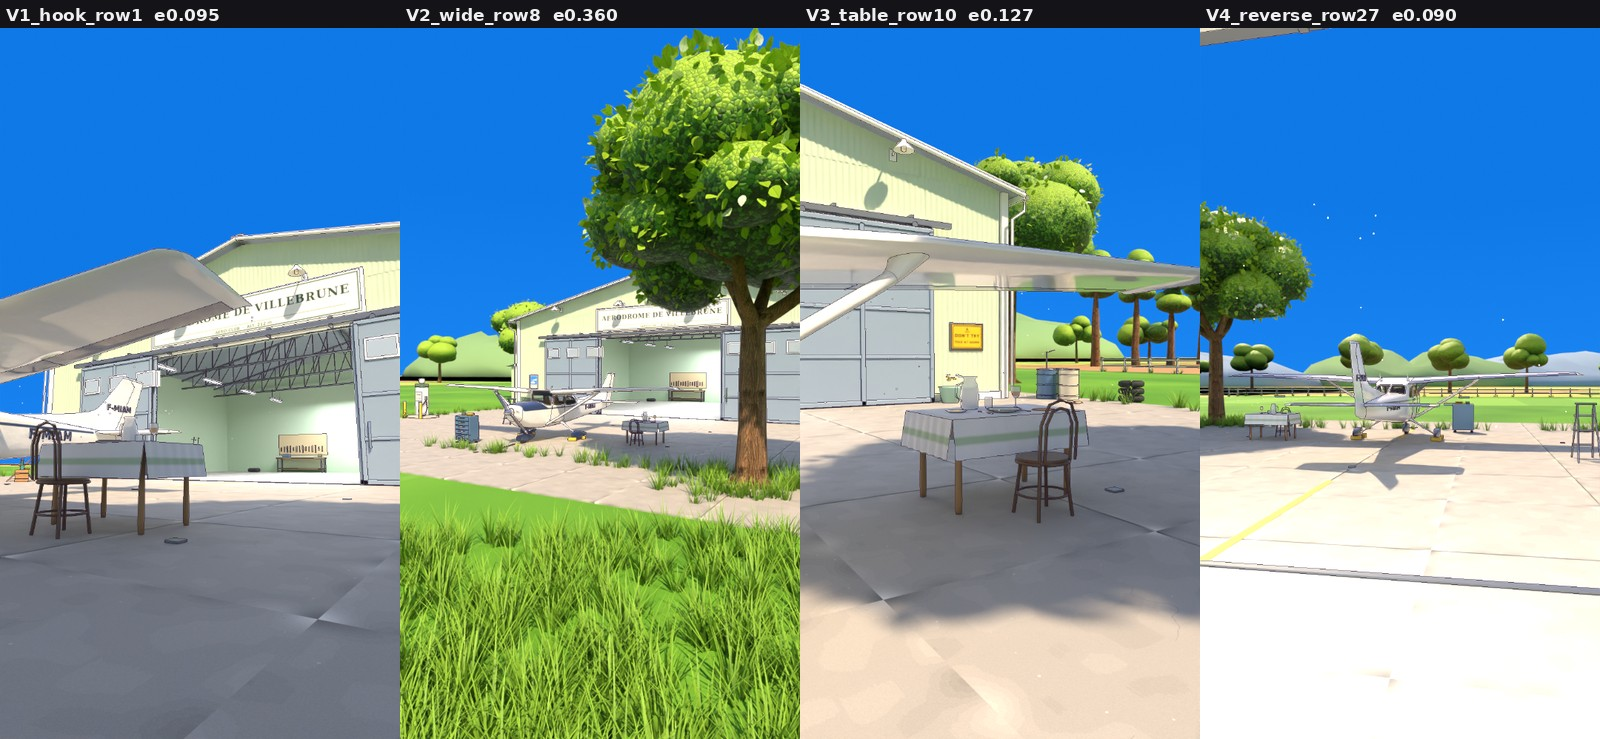
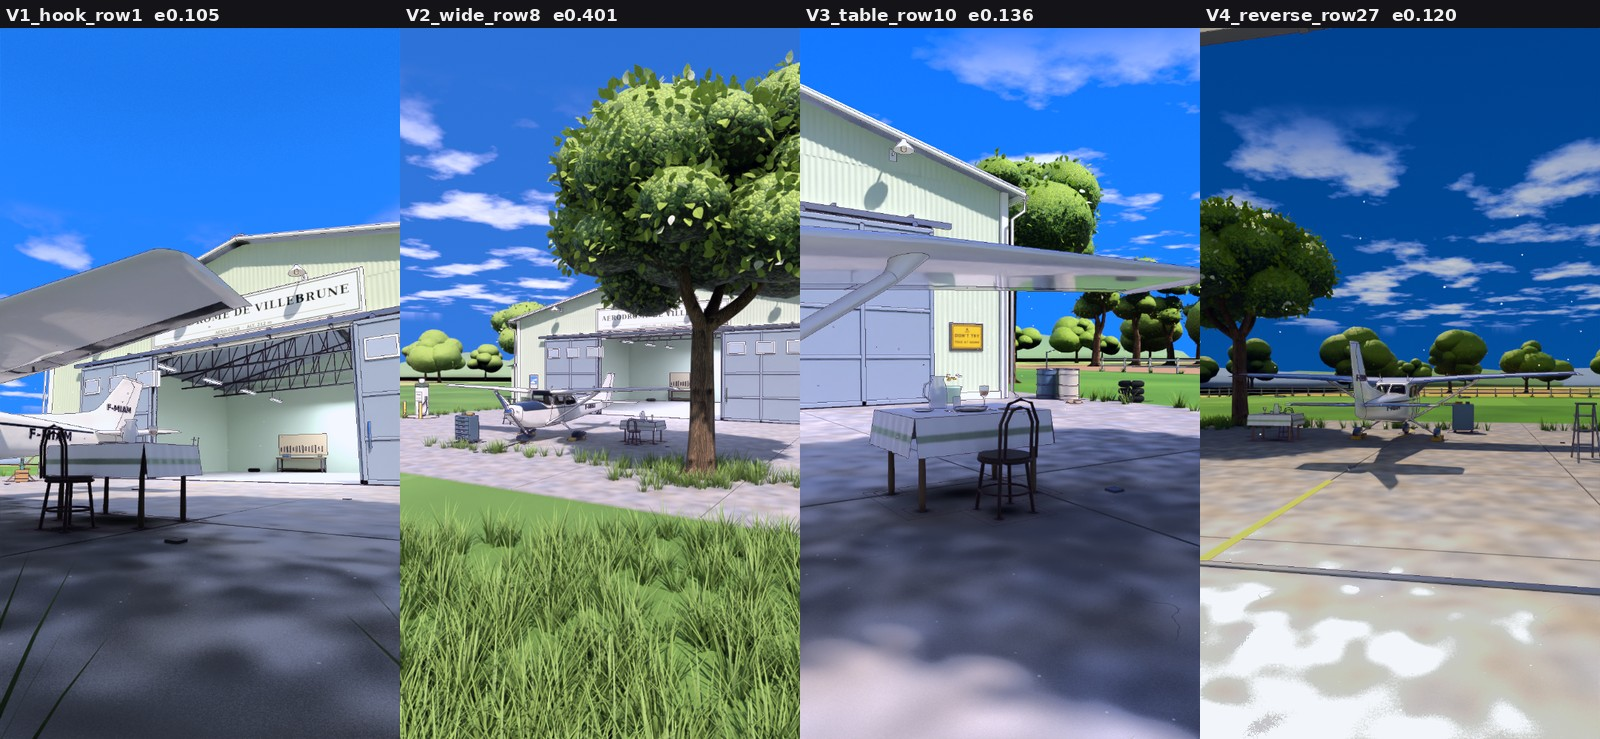
plane-eater: X-ray room, X-ray world and cabin sets v1
Claude-Session: https://claude.ai/code/session_01DrjR3Ltb34YxYG9MboPX6s

diff --git a/episodes/plane-eater/sets/apron/scripts/tex_apron.py b/episodes/plane-eater/sets/apron/scripts/tex_apron.py
@@ -8,13 +8,15 @@ FD = '/usr/share/fonts/truetype/dejavu/'
 SERIF, SANS = FD + 'DejaVuSerif-Bold.ttf', FD + 'DejaVuSans-Bold.ttf'
 def hx(h): h = h.lstrip('#'); return tuple(int(h[i:i + 2], 16) for i in (0, 2, 4))
 def blur_noise(n, s, sig):
-    a = NP.random((s, s)).astype(np.float32); im = Image.fromarray((a * 255).astype(np.uint8)).filter(ImageFilter.GaussianBlur(sig)); return np.asarray(im).astype(np.float32) / 255
+    # FIX 2: blur in float, wrap-around (tiles), rescaled 0..1. The old uint8 blur left 1-2 grey levels that the normalising turned into hard camouflage blotches
+    from scipy.ndimage import gaussian_filter
+    a = gaussian_filter(NP.random((s, s)).astype(np.float32), sig, mode='wrap'); return (a - a.min()) / (a.max() - a.min() + 1e-9)
 
 # concrete: pale warm grey, soft clouding, fine speckle, two hairline cracks per tile (2 m tile, 1024 px)
 S = 1024; base = np.array(hx('#a7a6a3'), np.float32)   # FIX 2: style-test concrete (was #c9c6bd, clipped white)
 cl = blur_noise(0, S, 40); cl = (cl - cl.mean()) / (cl.std() + 1e-6); sp = NP.random((S, S)).astype(np.float32)
 tw = blur_noise(0, S, 90); tw = (tw - tw.mean()) / (tw.std() + 1e-6)   # FIX 2: soft warm/cool drift between patches
-img = base[None, None, :] * (1 + .06 * cl[..., None]) + tw[..., None] * np.array([3.5, 1.0, -3.0], np.float32) + (sp[..., None] - .5) * 14
+img = base[None, None, :] * (1 + .045 * cl[..., None]) + tw[..., None] * np.array([3.5, 1.0, -3.0], np.float32) + (sp[..., None] - .5) * 14
 img = np.clip(img, 0, 255).astype(np.uint8); im = Image.fromarray(img); d = ImageDraw.Draw(im)
 for _ in range(2):
     x, y = R.uniform(100, 900), R.uniform(100, 900); a = R.uniform(0, 6.28)

diff --git a/episodes/plane-eater/sets/apron/scripts/apron_api.py b/episodes/plane-eater/sets/apron/scripts/apron_api.py
@@ -32,8 +32,8 @@ def _world(sc):
     nb = N.new('ShaderNodeTexNoise'); nb.noise_dimensions = '2D'; nb.inputs['Scale'].default_value = 1.3; nb.inputs['Detail'].default_value = 7.; nb.inputs['Roughness'].default_value = .55
     L.new(dv.outputs[0], nb.inputs['Vector'])
     cr = N.new('ShaderNodeMapRange'); cr.inputs[1].default_value = .52; cr.inputs[2].default_value = .62; L.new(nb.outputs['Fac'], cr.inputs[0])
-    b1 = N.new('ShaderNodeMapRange'); b1.interpolation_type = 'SMOOTHSTEP'; L.new(sp_.outputs[2], b1.inputs[0]); b1.inputs[1].default_value = .03; b1.inputs[2].default_value = .09
-    b2 = N.new('ShaderNodeMapRange'); b2.interpolation_type = 'SMOOTHSTEP'; L.new(sp_.outputs[2], b2.inputs[0]); b2.inputs[1].default_value = .28; b2.inputs[2].default_value = .45
+    b1 = N.new('ShaderNodeMapRange'); b1.interpolation_type = 'SMOOTHSTEP'; L.new(sp_.outputs[2], b1.inputs[0]); b1.inputs[1].default_value = .1; b1.inputs[2].default_value = .16
+    b2 = N.new('ShaderNodeMapRange'); b2.interpolation_type = 'SMOOTHSTEP'; L.new(sp_.outputs[2], b2.inputs[0]); b2.inputs[1].default_value = .36; b2.inputs[2].default_value = .52
     b2.inputs[3].default_value = 1.; b2.inputs[4].default_value = 0.
     cm = N.new('ShaderNodeMath'); cm.operation = 'MULTIPLY'; L.new(b1.outputs[0], cm.inputs[0]); L.new(b2.outputs[0], cm.inputs[1])
     cm2 = N.new('ShaderNodeMath'); cm2.operation = 'MULTIPLY'; cm2.use_clamp = True; L.new(cr.outputs[0], cm2.inputs[0]); L.new(cm.outputs[0], cm2.inputs[1])

diff --git a/episodes/plane-eater/sets/apron/scripts/bl_apron.py b/episodes/plane-eater/sets/apron/scripts/bl_apron.py
@@ -35,7 +35,7 @@ def mat(name, col='#ffffff', rough=.6, metal=0., png=None, emit=None, coat=0., a
 M = dict(
     sage=mat('hangar_sage', '#c9dcc0', .55), trim=mat('trim_white', '#f4f4ee', .4), door=mat('door_greyblue', '#8ea4b8', .45, coat=.3),
     roof=mat('roof_metal', '#b4bcc2', .35, .6), steel=mat('steel_grey', '#8e959c', .35, .8), dark=mat('rubber_dark', '#2e3034', .7),
-    glass=mat('glass_win', '#9fc0dc', .05, .2, alpha=.55), conc=mat('concrete', '#ffffff', .85, png='concrete'), conc_in=mat('concrete_in', '#b9b6ae', .6),
+    glass=mat('glass_win', '#9fc0dc', .05, .2, alpha=.55), conc=mat('concrete', '#ffffff', .85, png='concrete'), conc_in=mat('concrete_in', '#b4b2ac', .92)   # FIX 2: matte (glossy floor gave noisy white blotches in V4),
     cloth=mat('tablecloth', '#ffffff', .8, png='cloth'), wood=mat('wood_honey', '#ffffff', .5, png='wood'), bent=mat('wood_bentwood', '#6b4a2f', .4, coat=.4),
     china=mat('china_white', '#f7f7f4', .15, coat=.6), crystal=mat('glass_crystal', '#ffffff', .02, alpha=.25), oil=mat('oil_amber', '#f0a81c', .05, emit='#f0a81c', coat=.8),
     water=mat('water_clear', '#d8ecf6', .02, alpha=.35), chrome=mat('chrome', '#e8eaee', .08, 1.), canvas=mat('canvas_stripe', '#ffffff', .75, png='canvas'),

diff --git a/episodes/plane-eater/sets/xray/STATE.md b/episodes/plane-eater/sets/xray/STATE.md
@@ -1,0 +1,23 @@
+# STATE: PLACE X, X-ray clinic corner + X-RAY WORLD (set-builder round 1, 2026-11-21). Sheet: XRAY_SHEET.jpg (6 tiles, looked at).
+## NOT done / still weak (seen in the sheet)
+- X-ray world rows 21-22 are WASHED OUT: lining + dashes + glass wall + fog glow add up to near-white (mean .78/.84; edge .016/.023, colours 66/89).
+  Fix: lining emission .45 -> .1, base colour toward #5fb3e0, glare strength .5 -> .25, stomach rim emission 2.2 -> 1.0, xw_key 160 -> 60.
+- Row 21 mattress quilting reads as round bubbles, not a quilted mattress: add seam grooves between pillows + button dots; dashes barely visible.
+- Row 20 CAM_INSIDE: the bean reads but is small and below a big rib; no Cessna readable at that distance. Move camera closer / lower, ribs fewer in front.
+- Mini Cessna (row 22) reads as a plane of square bites, but too small in CAM_RIDE; ride camera 0.3 m closer.
+- Clinic: walls still bright (shoulder mean .69, wide .56 fine); a black square at a T-bar crossing in CAM_WIDE (not found yet); window sky is a flat placeholder
+  (background-painter). Shoulder tile edge .066 / 293 regions: wall area too plain left of the box (add a poster / notice board / switch plate).
+- Gates (density_check --day): shoulder 1/7, wide 4/7, film 4/7, inside 1/7, lining 2/7, ride 1/7. Edge density 0.016-0.077 vs Rick bar 0.086.
+- Kit module xray.js: syntax-checked only, not rendered in the kit. The backdrop sphere needs side BackSide in the kit (flipped normals may not survive).
+- No close-up detail pairs measured against Rick (only one ours-vs-Rick sheet: crew/set-builder_vs_rick.jpg, private, holds Rick frames).
+## Built
+- scripts/tex_xray.py (film_hero = the signature: cyan skeleton on #2f6fb3, bean stomach, Cessna of square bites with navy stripe, F-MIAM, label M. LOTITO
+  GRENOBLE 1978; film_before; lino; eye chart; world backdrop), scripts/bl_xray.py, build_xray.sh, ../pe_bl.py (helpers), ../pe_proof.py, ../pe_sheet.py, ../run_proofs.sh.
+- out/xray.blend (cams CAM_SHOULDER, CAM_WIDE, CAM_FILM, CAM_INSIDE, CAM_LINING, CAM_RIDE), out/xray_lite.glb (3.4 MB, morph 'puff'), out/xray_meta.json
+  (anchors, cams, slide_path + slide_path_flat, mini Cessna node). ../xray.js (kit: puff, ride, flicker, keys; propeller spin). ../xray_STORY.md, ../xray_DRESSING.md.
+## Numbers
+- Triangles: clinic 33,848; X-ray world 41,464; total 75,312 (all bevels applied). GLB 3.44 MB.
+- Previews 540x960 Cycles CPU 16 spp + OIDN, load 8-12: 60-98 s a tile. proof/numbers.json, proof/density.json.
+## Layout (Blender metres, Z up)
+Clinic floor z 0; back wall inner face y 2.2 (light box centre x .35 z 1.5, hero film on panel x .11); window wall x -2.2 (window y .35-1.75, z .95-2.15);
+4th wall y -2.6 with coat hooks; door in the right wall. X-ray world at X0 (30,0,0): stomach centre (30.4,-.2,-1.4), axes 2.9/1.9/1.6; spine at y +4.2.

diff --git a/episodes/plane-eater/crew/set-builder_check.md b/episodes/plane-eater/crew/set-builder_check.md
@@ -1,0 +1,17 @@
+# set-builder check: X-ray room + X-ray world + airliner cabin (round 1, 2026-11-21). Result: NOT PASS, below Rick (list below).
+Side-by-side (PRIVATE, holds Rick frames, never publish): crew/set-builder_vs_rick.jpg (ours left, Rick right: clinic box vs SH5 K46; cabin tray vs SH10 P01).
+## Five details per main object
+- Light box: twin emissive diffusers; chrome clip bars + 4 steel clips; 2 rubber switches; 4 chrome corner screws; VIEWER label + cable to a wall socket.
+- Hero film: cyan rib cage + vertebrae; bean stomach with quilted lining hint; Cessna of square bites with navy stripe; F-MIAM; label M. LOTITO GRENOBLE 1978 + R marker.
+- Exam bench: tufted mint vinyl (18 buttons); raised headrest; paper sheet + roll on a chrome rod; chrome legs + rubber feet + stretchers; chrome step stool with rubber tread.
+- Desk corner: green banker lamp (warm pool); beige rotary phone; green mug; manila envelopes with LOTITO; kidney dish with 5 metal bites (white/navy).
+- Mattress lining: shape key puff; quilted pillows; runway dashes rising with it; edge lines; slide path in meta.
+- Mini Cessna: 3.5 cm bite voxels; navy stripe; alu gear legs; rubber wheels; prop + spinner.
+- Airliner seat: blue weave fabric; white headrest cover; grey shell + pocket + SAFETY card; belts + chrome buckle; alu legs + spreader + armrests.
+- Tray/meal: tray whole + bitten; grey-beige tray #b9b3a3; foil lid on/lifted; peas + runaway pea; roll, butter, cup, cutlery pack, napkin.
+- Wing: crescent bite with tooth scallops; flap canoes; seam lines + walkway; winglet + green nav light; engine nacelle + intake lip + pylon.
+## Gate numbers (density_check --day; Rick bar edge 0.086, regions 736)
+xray: shoulder edge .066 1/7; wide .077 4/7; film .075 4/7; inside .058 1/7; lining .016 2/7; ride .023 1/7. cabin: two 0 (black) 1/7; tray .050 3/7; traybitten .051 3/7; window .051 2/7.
+## Below Rick (exact)
+1 cabin over-exposed and CAM_TWO inside a seat (black); windows show no clouds/wing; CAM_WINDOW blocked. 2 X-ray world rows 21-22 washed out, quilting reads as bubbles.
+3 clinic wall area plain (shoulder edge .066, Rick's clinic has monitors, rails, posters). 4 no close-up detail pairs at 90 % measured. 5 phone check not done. 6 kit modules not rendered.

diff --git a/episodes/plane-eater/sets/cabin/STATE.md b/episodes/plane-eater/sets/cabin/STATE.md
@@ -1,0 +1,19 @@
+# STATE: PLACE C, airliner cabin row (set-builder round 1, 2026-11-21). Sheet: CABIN_SHEET.jpg (4 tiles, looked at). NOT DONE.
+## NOT done / still weak (seen in the sheet)
+- CAM_TWO (row 35) renders BLACK: the camera sits inside the backrest of seat 8D (x .55, y -.6). Move to the aisle: pos (.45, .15, 1.3), aim (-.05, 1.1, .9).
+- Whole cabin OVEREXPOSED (mean .79-.82, whites clipped): cove fill 2 x 140 W -> 2 x 30, world .9 -> .35, sun 5.5 -> 4. Windows read flat white:
+  no clouds or wing seen in any tile.
+- CAM_WINDOW (row 38) is blocked by the seat back of row 0 at 0.3 m: the bitten wing is not seen. Needs a station at the window seat looking out
+  (e.g. pos (-.1, 1.0, 1.05) aim (.6, 3.0, .6), lens 24) and a check that the bite at y 6.4 sits in the window view.
+- Tray table hangs too low/far from Michel's seat (reads beside the seat); meal reads small and pale; the bite on tray_table_bitten is not readable at CAM_TRAY.
+- Gates (density_check --day): two 1/7 (black), tray 3/7, traybitten 3/7, window 2/7; edge .050-.051 vs bar .086.
+- Kit module cabin.js: syntax-checked only, not rendered. No airline name on the headrest covers (lead to decide).
+## Built
+- scripts/tex_cabin.py (carpet, blue weave fabric, sky gradient, SAFETY card), scripts/bl_cabin.py, build_cabin.sh; out/cabin.blend (cams CAM_TWO, CAM_TRAY,
+  CAM_WINDOW), out/cabin_lite.glb (7.2 MB), out/cabin_meta.json (anchors, cams, states). ../cabin.js (bitten, foil, pea, keys). ../cabin_STORY.md, ../cabin_DRESSING.md.
+- 5 rows x 5 seats (A B | D E F), armrests, bins + latches, PSU (gaspers, reading lamps, belt signs, row numbers 12-17), cove light, curved sidewalls with
+  superellipse windows (bezel, reveal, glass, shades), tray table whole + bitten (boolean crescent with tooth scallops), grey meal (tray, dish, stew, 14 peas +
+  runaway pea, foil on/lifted, roll, butter, cup, cutlery pack, napkin), outside: swept wing with a crescent bite at the leading edge (y 6.4), canoes, winglet,
+  nav light, engine + pylon, 70 cumulus heaps, sky dome.
+## Numbers
+- Triangles: cabin 132,290; outside 62,296; total 194,586. GLB 7.18 MB. Previews 30-53 s a tile.
